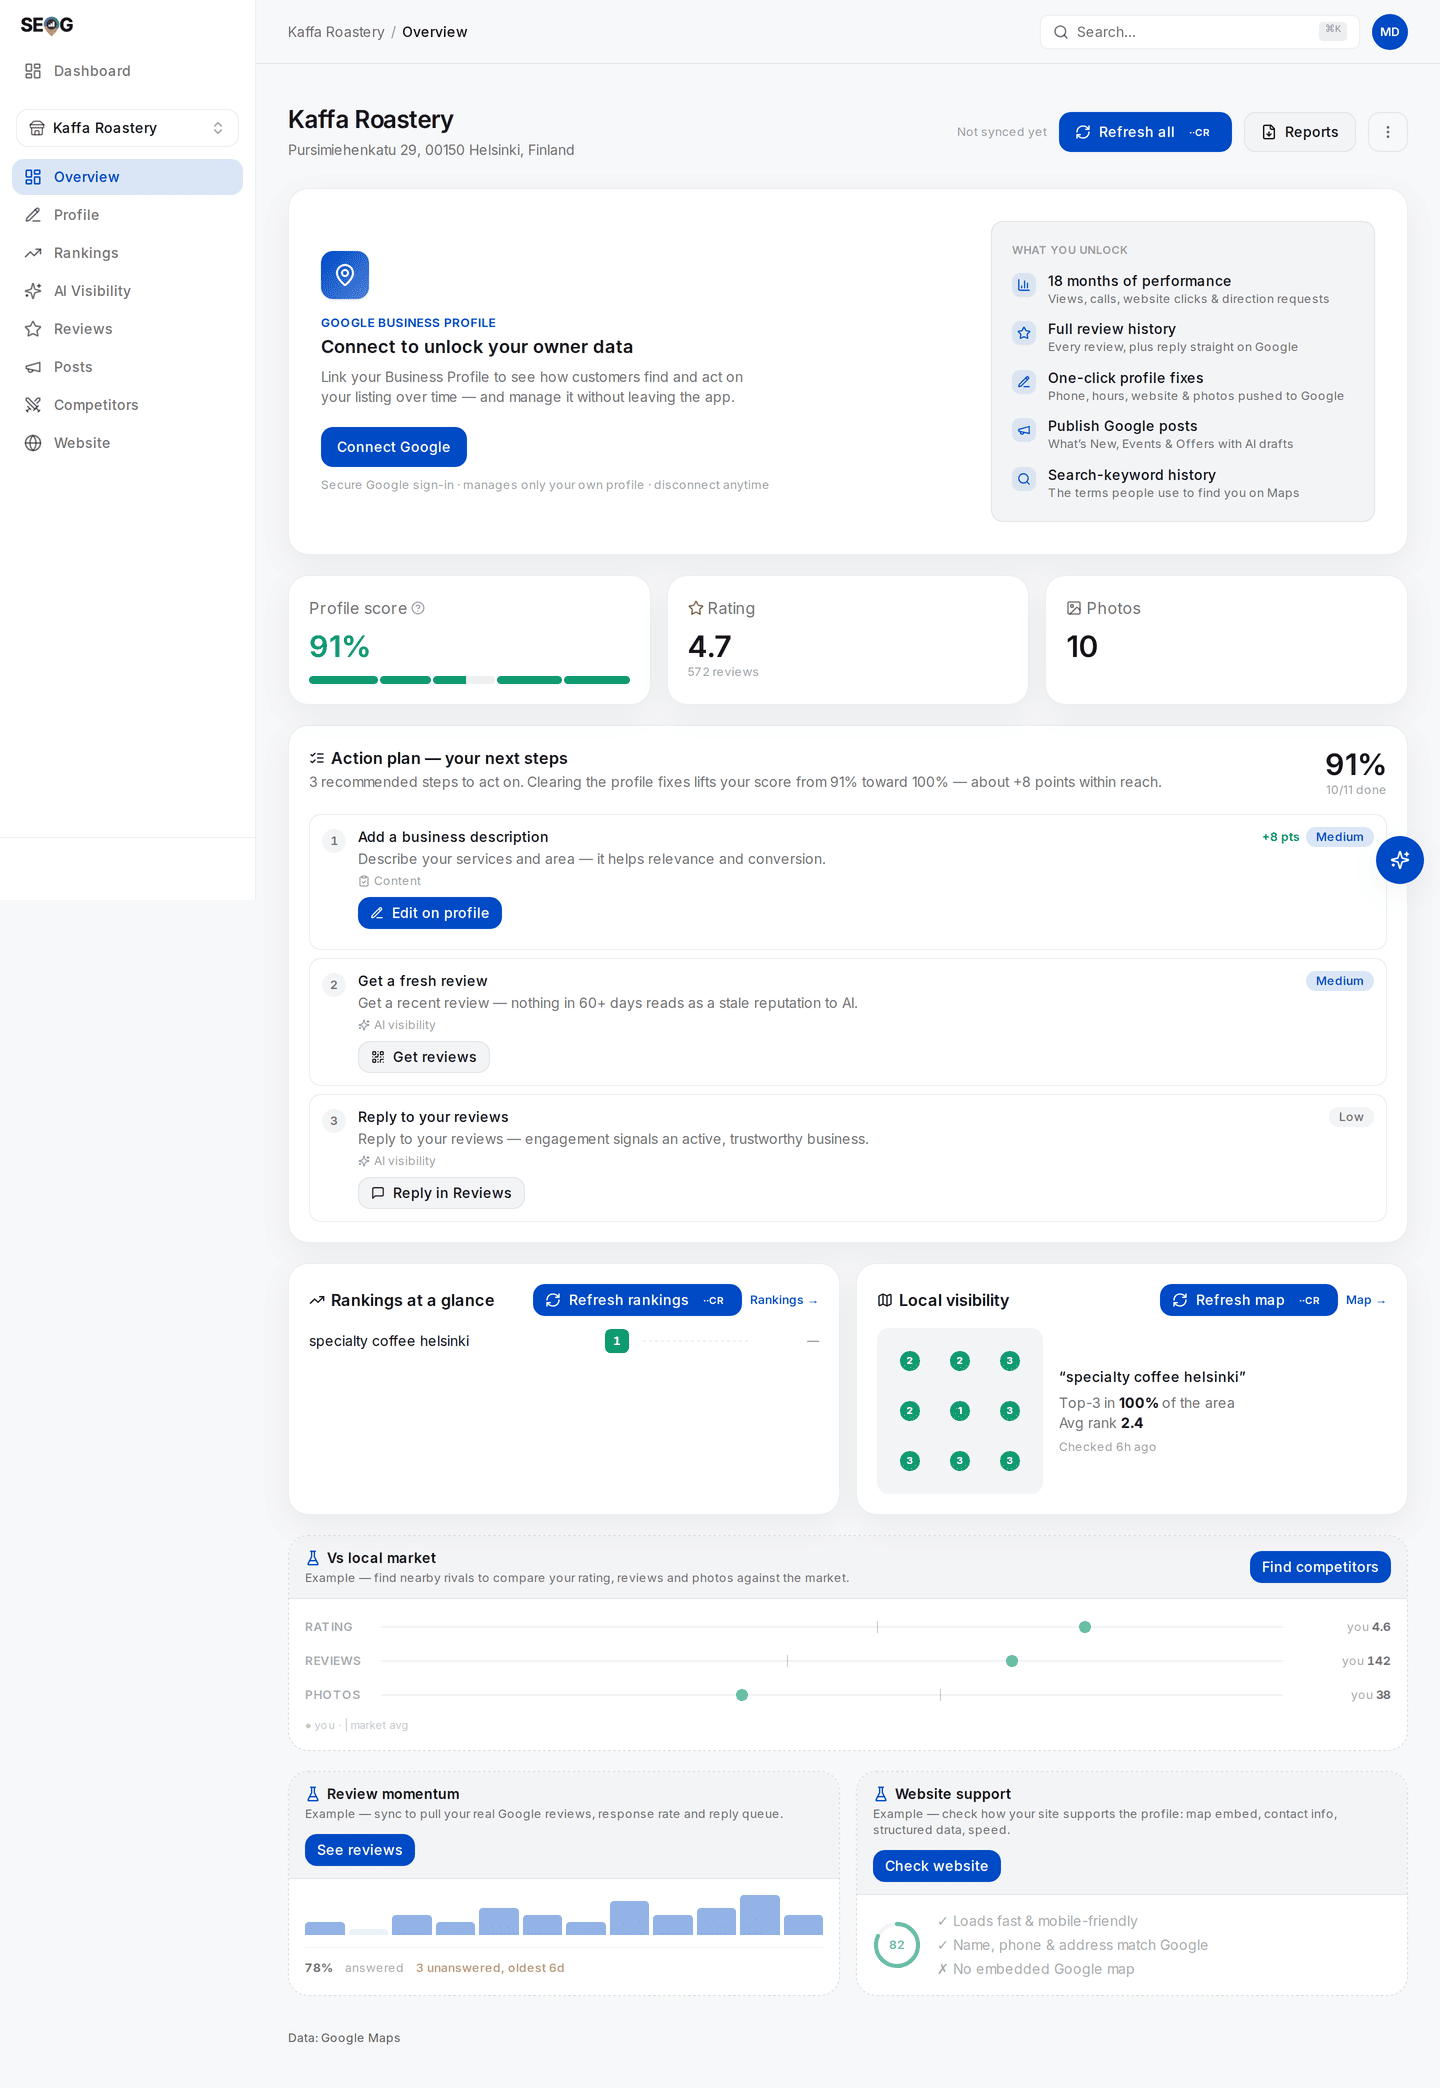
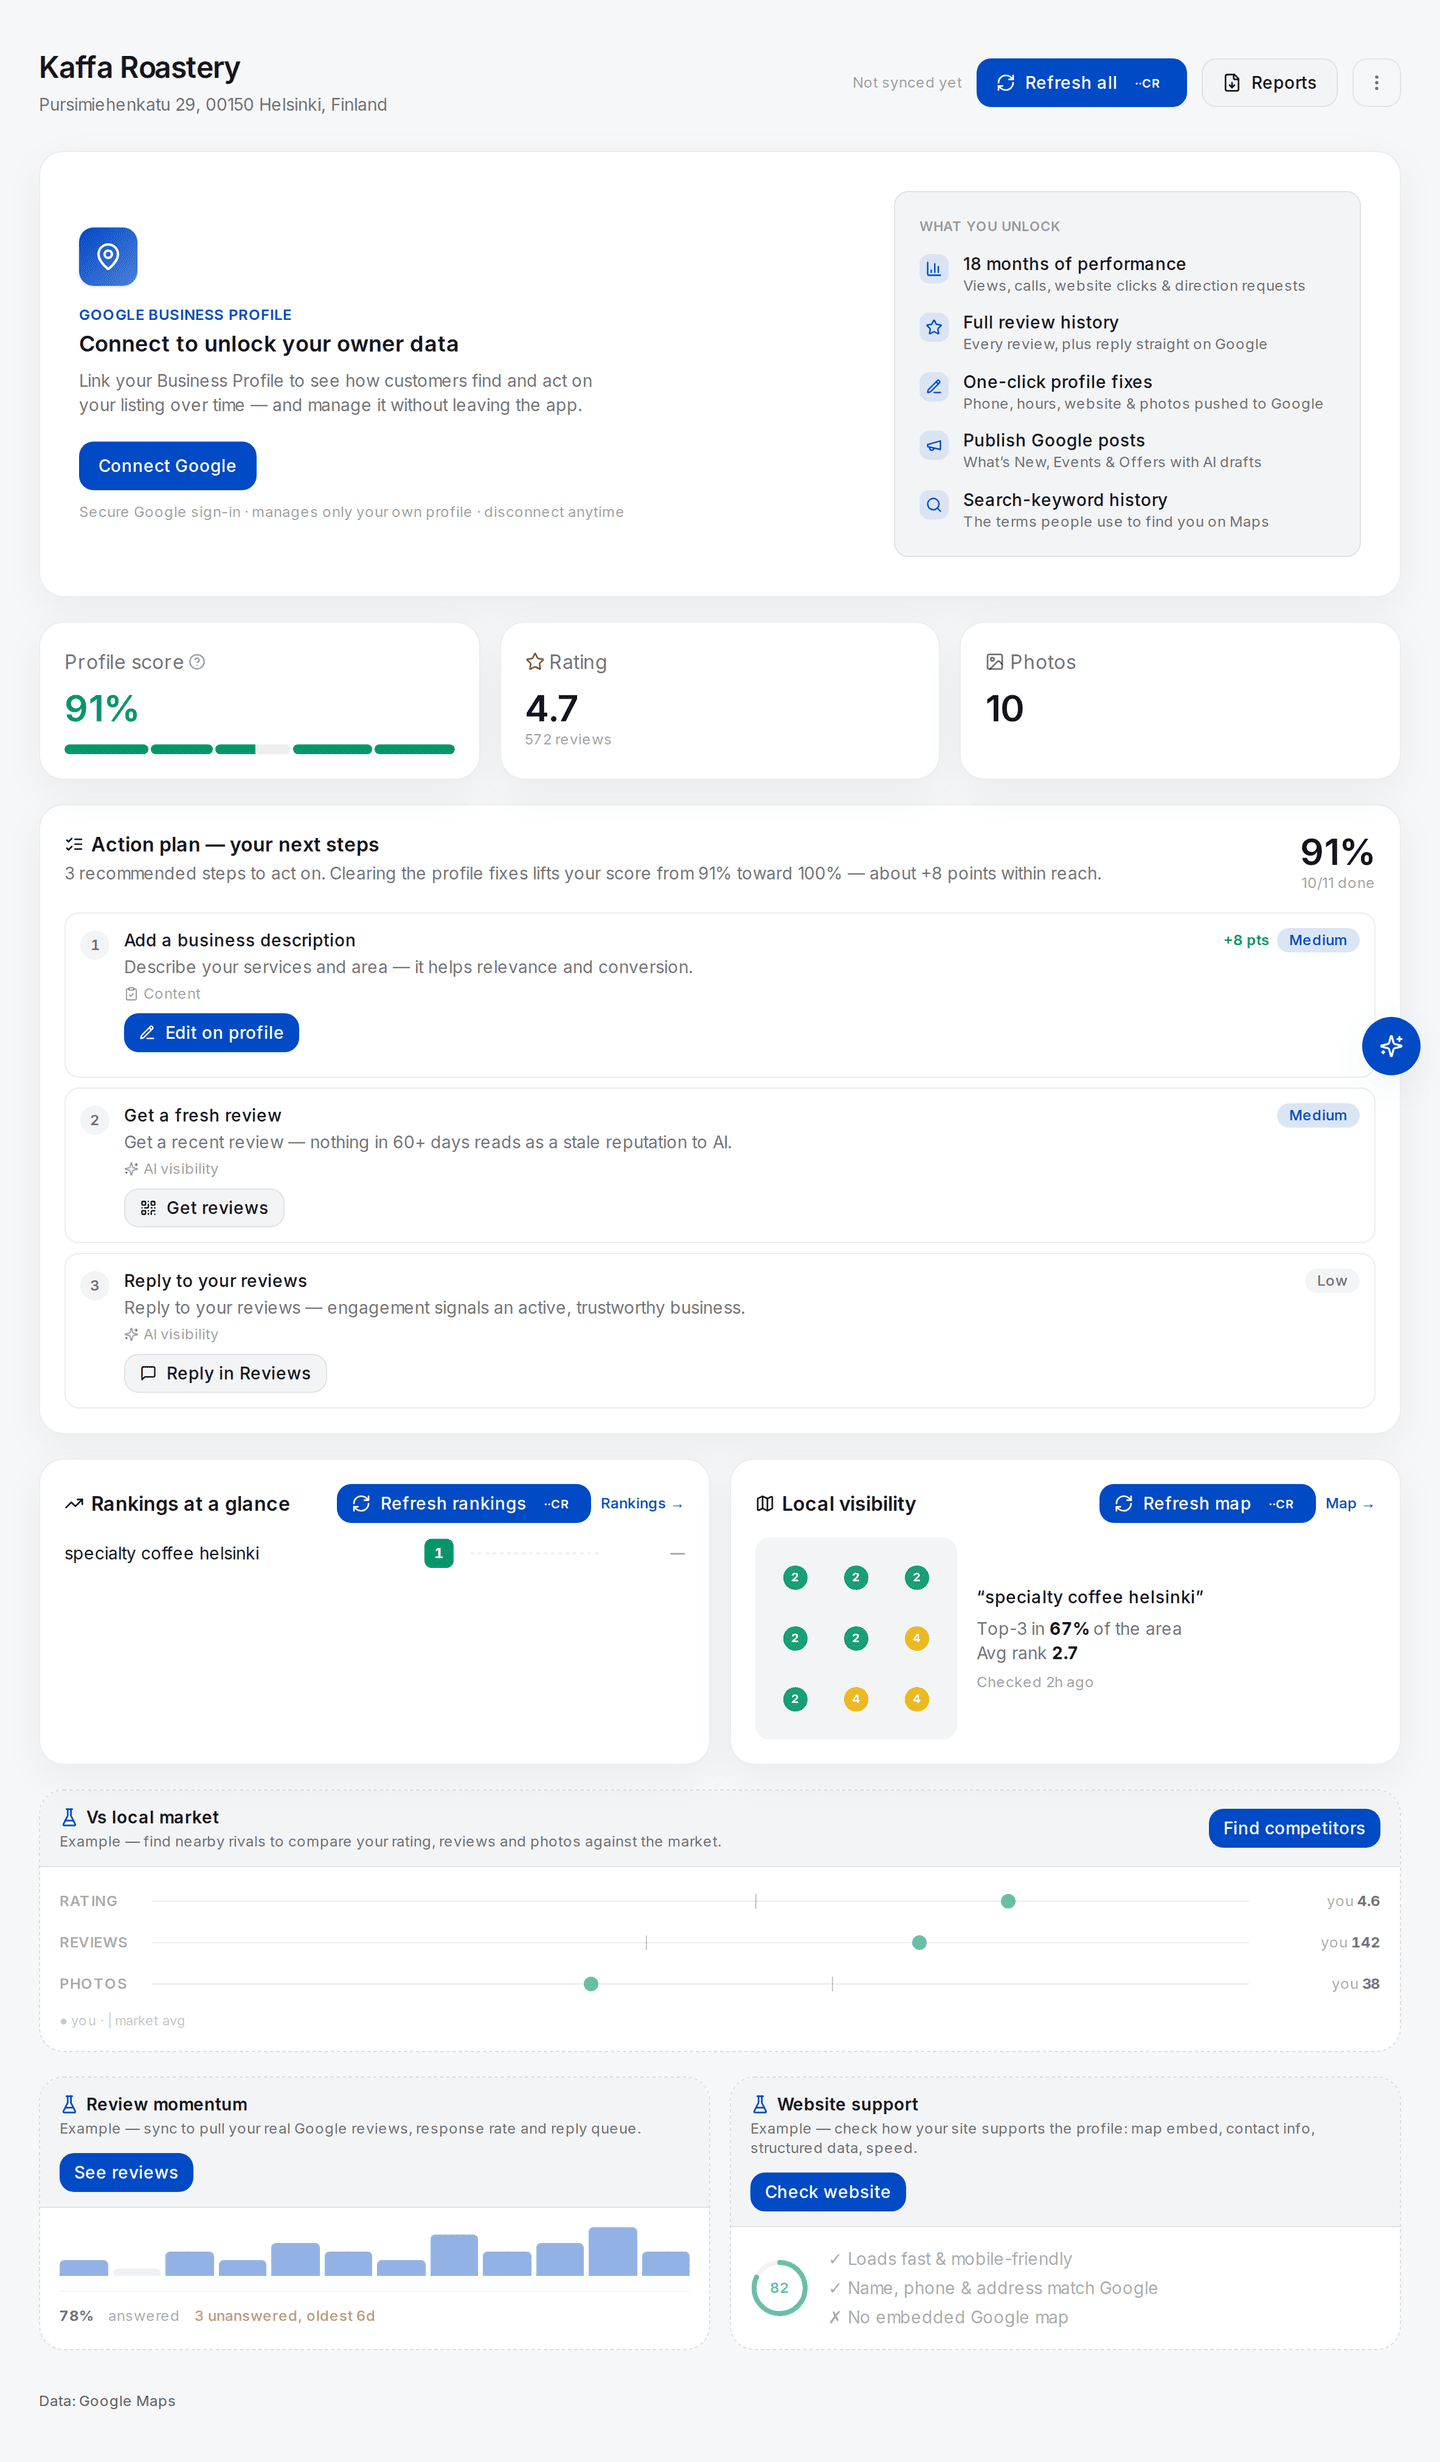
fix: full-page screenshots were rendering broken
The app shell is position:fixed, so a fullPage screenshot painted the sidebar
and top bar at their VIEWPORT offset — a third of the way down a tall capture,
floating over the content, with a blank void above. Several shipped that way and
they read as broken images.

Tall captures now shoot the <main> ELEMENT, with the shell chrome hidden for the
shot (an element screenshot still captures whatever fixed chrome paints over
that region, which left a stray band of breadcrumb + search mid-image).

Grid rescanning is now STRICTLY opt-in (MANUAL_RESCAN=1). The previous guard
also scanned whenever it failed to detect a stored scan, and its detection was
unreliable: it re-measured on five consecutive runs, and each one silently
falsified every caption quoting "Avg rank X" / "Top-3 coverage Y%". When prose
depends on an output, "do not measure" is the only safe default.

Captions re-read against the actual current image: Avg rank 2.8, Top-3 coverage
67%. The churn produced something better than it cost, though — the trend strip
now records five scans of the SAME nine points across a single day reading
100%, 0%, 0%, 67%, 67%, with the app itself printing "-33 pts". That is real,
self-collected evidence for the chapter about how much a grid disagrees with
itself, and it now anchors it.

diff --git a/docs/03-advanced/reading-a-geo-grid.md b/docs/03-advanced/reading-a-geo-grid.md
@@ -25,13 +25,17 @@ The consequence is the mechanism by which grids flatter people, and it deserves 
 
 A third figure makes the other two safe. The plain-language paragraph above the map states it: *"You appear in the top 20 at 9 of 25 points."* That is the **found rate**, the denominator information the average threw away. Quote it every time, first.
 
-![A finished 3x3 geo-grid scan over Helsinki: nine amber rank pins reading between 4 and 7, the summary line above the map, and Avg rank 4.8 with Top-3 coverage 0% below it](../../static/img/screens/geo-grid.png)
+![A finished 3x3 geo-grid scan over Helsinki with the summary line above the map, Avg rank 2.8 and Top-3 coverage 67% below it, and a trend strip showing five scans reading 100%, 0%, 0%, 67% and 67%](../../static/img/screens/geo-grid.png)
 
 *The whole argument on one screen, and a real scan — **Check now** at the Quick preset ran nine live searches, one per point, and each pin carries the position that point returned.*
 
-*Read the three figures in order and watch them disagree. The plain-language line first: found in the top 20 at **9 of 9** points — perfect coverage, nothing missing. Then **Avg rank 4.8**, which sounds like a mid-table result. Then **Top-3 coverage 0%**, which sounds like a catastrophe. All three describe the same nine numbers.*
+*Read the figures in order. The plain-language line first: found in the top 20 at **9 of 9** points. Then **Avg rank 2.8**, computed only over the pins where the business appeared. Then **Top-3 coverage 67%**, computed over all nine. Three numbers, one set of nine measurements.*
 
-*They diverge because they answer different questions. The average is computed over found pins and is blind to thresholds. Top-3 coverage is computed over all nine and is nothing **but** a threshold — #4 scores exactly the same as #40. A business one position outside the pack everywhere reads as a total failure on one metric and an unremarkable middle on another, and neither is lying. This is why the found rate goes first, every time.*
+*Now read the trend strip above the map, because it is the more important object on this screen. It plots **five scans of these same nine points, taken across a single day**: 100%, 0%, 0%, 67%, 67%. No profile edit, no new review, no competitor move — the business did nothing at all between them. The header even prints a verdict on it: **-33 pts**.*
+
+*Any two of those five could be presented as a quarter's work. Take the third and the fourth and you have "top-3 coverage up 67 points". Take the first and the second and you have a catastrophe to pin on an algorithm update. Both are honest arithmetic on real measurements. Both are worthless.*
+
+*This is not a defect in one vendor's tool — it is what sampling a discontinuous sort looks like. It is also why the rest of this chapter exists, and why Lab 18.2 makes you measure your own noise floor before you report a single movement.*
 
 *(The search-volume card higher up the page carries a **Test data** badge — those figures are placeholders, not market data.)*
 

diff --git a/docs/01-foundations/rank-is-a-map-not-a-number.md b/docs/01-foundations/rank-is-a-map-not-a-number.md
@@ -36,9 +36,11 @@ Two things make that surface less tidy than the word "decay" suggests.
 
 A geo-grid measures rank the way you would measure temperature across a room: sample it at many points and look at the field. Pick a centre, lay out an n×n lattice of points at a fixed spacing, run the *same* search from each point as though a person were standing there, and record where the business appears. What you get back is n² positions with coordinates attached. Drawn on a map with colour, that is a heatmap.
 
-![A real 3x3 geo-grid scan over Helsinki: nine amber rank pins carrying positions between 4 and 7, with avg rank 4.8 and top-3 coverage 0% below the map](../../static/img/screens/geo-grid.png)
+![A real 3x3 geo-grid scan over Helsinki: nine rank pins carrying different positions, with avg rank 2.8 and top-3 coverage 67% below the map](../../static/img/screens/geo-grid.png)
 
-*A real scan, not an illustration: nine live searches for one keyword, one from each point. The pins read #4, #5 and #7 depending on where the searcher stands — same keyword, same minute, different answers. The two figures under the map compress all nine into `Avg rank 4.8` and `Top-3 coverage 0%`, which is where the trouble in the rest of this chapter starts. Note what those two numbers do and do not agree about: the business was **found at every single point**, and still scores zero on the headline coverage metric, because "top 3" is a threshold and #4 is on the wrong side of it.*
+*A real scan, not an illustration: nine live searches for one keyword, one from each point, run within a minute of each other. The pins carry different positions depending only on where the searcher is standing — that spread is the entire subject of this chapter.*
+
+*The two figures under the map compress all nine into `Avg rank 2.8` and `Top-3 coverage 67%`. Look at the small trend strip above the map before you trust either of them: it plots five scans of these same nine points taken across a single day, and it reads **100%, 0%, 0%, 67%, 67%**. Nothing about the business changed between them. [Part III](../03-advanced/reading-a-geo-grid.md) is about what to do with an instrument that behaves like that.*
 
 Doing it by hand is possible and instructive — an incognito window plus a location override in your browser's dev tools produces one grid point at a time, and twenty-five of them is an afternoon. See [Doing all of this without SEOG](../99-appendix/doing-it-without-seog.md).
 

diff --git a/docs/03-advanced/why-two-tools-disagree.md b/docs/03-advanced/why-two-tools-disagree.md
@@ -128,9 +128,9 @@ That ends the meeting. "Their tool is inaccurate" starts an argument you cannot 
 4. On the map, find the **centre** pin — the one on the blue dot marking your business. Record its position and the time.
 5. Write the two readings as a pair with their conditions: same keyword, same coordinate, minutes apart, radii of three miles and one mile.
 
-![A completed 3x3 geo-grid scan over Helsinki, pins reading between 4 and 7](../../static/img/screens/geo-grid.png)
+![A completed 3x3 geo-grid scan over Helsinki, its nine pins carrying different positions](../../static/img/screens/geo-grid.png)
 
-*A real scan: nine live searches for one keyword, one per point. The same business reads #4, #5 and #7 depending only on which coordinate the search ran from — one keyword, one minute, three answers, none of them wrong. One detail in the legend is worth knowing before a client asks: it offers a **20+** band, and that band can never fill. The scan reads twenty deep, so a point either has a position of twenty or better or it is **Not found**. A colour with nothing that can land in it is the ruler's end stop, drawn.*
+*A real scan: nine live searches for one keyword, one per point. The same business reads a different position depending only on which coordinate the search ran from — one keyword, one minute, several answers, none of them wrong. One detail in the legend is worth knowing before a client asks: it offers a **20+** band, and that band can never fill. The scan reads twenty deep, so a point either has a position of twenty or better or it is **Not found**. A colour with nothing that can land in it is the ruler's end stop, drawn.*
 
 **What good looks like.** Two numbers you can defend individually and would never average. If they match, that is a real result too — record it and repeat on a second keyword before concluding anything.
 

diff --git a/docs/01-foundations/what-is-local-seo.md b/docs/01-foundations/what-is-local-seo.md
@@ -22,7 +22,7 @@ The consequence is the single most important structural fact in this discipline:
 
 ![A 3x3 grid scan over Helsinki for one keyword, with a rank number on the pin at each of the nine measurement points](../../static/img/screens/geo-grid.png)
 
-*One keyword, nine live searches run from nine coordinates around Helsinki — a real scan, not a mock-up. The pins read #4 in some places and #5 or #7 in others, a couple of kilometres apart, which is exactly what a single "we rank #4" would hide. Ignore the search-volume figure further up that page: it carries a **Test data** badge, because no volume provider was configured on the machine that took the capture.*
+*One keyword, nine live searches run from nine coordinates around Helsinki — a real scan, not a mock-up. The pins carry different positions a couple of kilometres apart, which is exactly what a single "we rank #3" would hide. Ignore the search-volume figure further up that page: it carries a **Test data** badge, because no volume provider was configured on the machine that took the capture.*
 
 Local intent is also a spectrum rather than a switch. `emergency plumber` is almost pure local intent. `how do I stop a dripping tap` is almost none. `best plumber in Bristol for a boiler swap` is both, which is exactly why it gets answered by a different machine than the first one does.
 
